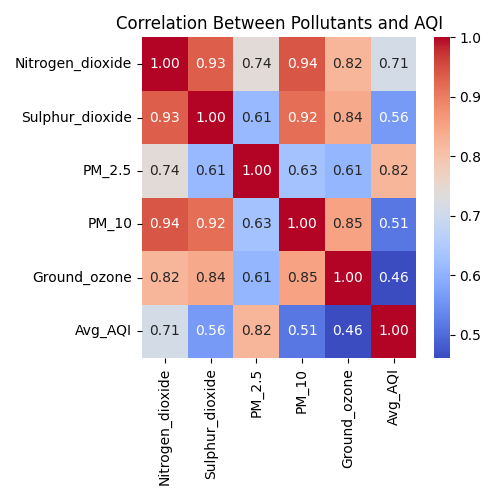
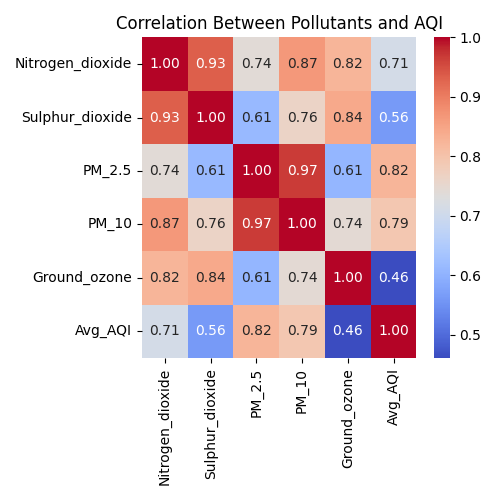
Added full README with key findings

Changed region(s): [[0.27, 0.06, 0.84, 0.72]]

diff --git a/README.md b/README.md
@@ -1,1 +1,38 @@
-# Air Quality of Indian States
+# Air Quality of Indian States (Simulated Dataset)
+
+## Project Title
+Air Quality of Indian States 
+
+## Overview
+This project analyzes a simulated air quality dataset across 19 Indian states, exploring pollutant levels, regional patterns, and their relationship with industrial activity and green cover.
+
+## Note on Data
+This dataset is fictional/simulated, created for analysis practice. It does not represent real air quality measurements.
+
+## Tools Used
+- Python (pandas, numpy)
+- Matplotlib and Seaborn for charts
+
+## Project Structure
+1. Created and loaded the dataset
+2. Explored it with head(), info(), describe()
+3. Checked any missing values and fixed data types
+4. Analysed it with groupby, sorting, and correlation
+5. Visualised it with bar, grouped bar, scatter, and box charts
+6. Summarised the findings in a storytelling panel
+
+## Key Findings
+- PM2.5 and PM10 show the strongest correlation with Average AQI (0.82 and 0.79), making particulate matter the primary driver of poor air quality in this dataset.
+- Green cover shows a strong negative correlation with AQI (-0.74), stronger than the positive correlation between industrial units and AQI (0.54).
+- North India has the highest average AQI among all regions.
+- No extreme outlier states — AQI varies smoothly across states with a mild right skew. Average AQI level across the country hovers between 90 to 140.
+
+
+## Future Improvements
+- Bring in real government data to validate the patterns.
+- South, East, and West regions are represented by only 2-3 states each, so regional averages should be read as indicative rather than fully representative.
+
+## How to Run
+1. Clone this repo
+2. Install requirements: pip install -r requirements.txt
+3. Open the notebook in notebooks/ and run all cells
